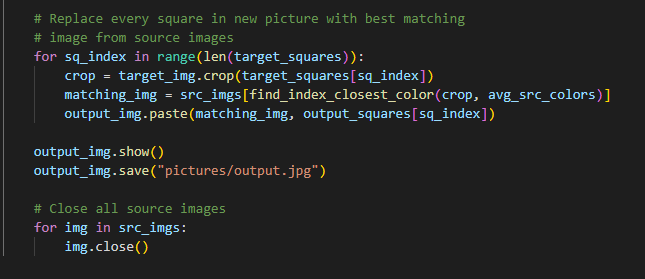
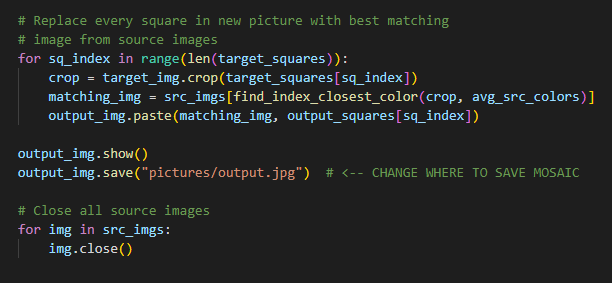
Add comments to mosaic file to make it more clear where to change output location

diff --git a/mosaic.py b/mosaic.py
@@ -17,7 +17,7 @@ src_imgs = []
 for file in glob.glob("pictures/sized-images/*"):  # <-- INSERT SOURCE IMAGES LOCATION
     src_imgs.append(Image.open(file))
 
-MIN_N_ROWS = 144  # <-- INSERT DESIRED NUMBER OF ROWS
+MIN_N_ROWS = 100  # <-- INSERT DESIRED NUMBER OF ROWS
 
 # Ensure target image is formatted correctly
 target_img = ImageOps.exif_transpose(target_img)  # Rotates if need be
@@ -62,7 +62,7 @@ def main():
         output_img.paste(matching_img, output_squares[sq_index])
 
     output_img.show()
-    output_img.save("pictures/output.jpg")
+    output_img.save("pictures/output.jpg")  # <-- CHANGE WHERE TO SAVE MOSAIC
 
     # Close all source images
     for img in src_imgs:

diff --git a/README.md b/README.md
@@ -33,7 +33,7 @@ To install the project, run `python pip install -r requirements.txt` from the pr
 ![Change whether the script deletes old sized images and what size to make thew new source images.](images/resize-options-1.png)  
 Here, near the top of the file, you can change whether the old sized images are deleted by changing the DELETE boolean, if this is not your first time running the script.
 You can also change the size you wish to make your source images. This is mainly to control how detailed the source images will be when you
-zoom in on the outputted mosaic. Currently, the photomosaic only supports square source images, so make sure the HEIGHT field stays equal to WIDTH.
+zoom in on the outputted mosaic. Currently, the program only supports square source images, so make sure the HEIGHT field stays equal to WIDTH.
 Also, make sure that the size you choose is smaller than the width and height of all of your source images for the best results.
 Keep in mind that larger source images will result in a much larger mosaic file size in the end.  
 ![Change where the source images to be resized are stored and where it will output the new sized images.](images/resize-options-2.png)  
